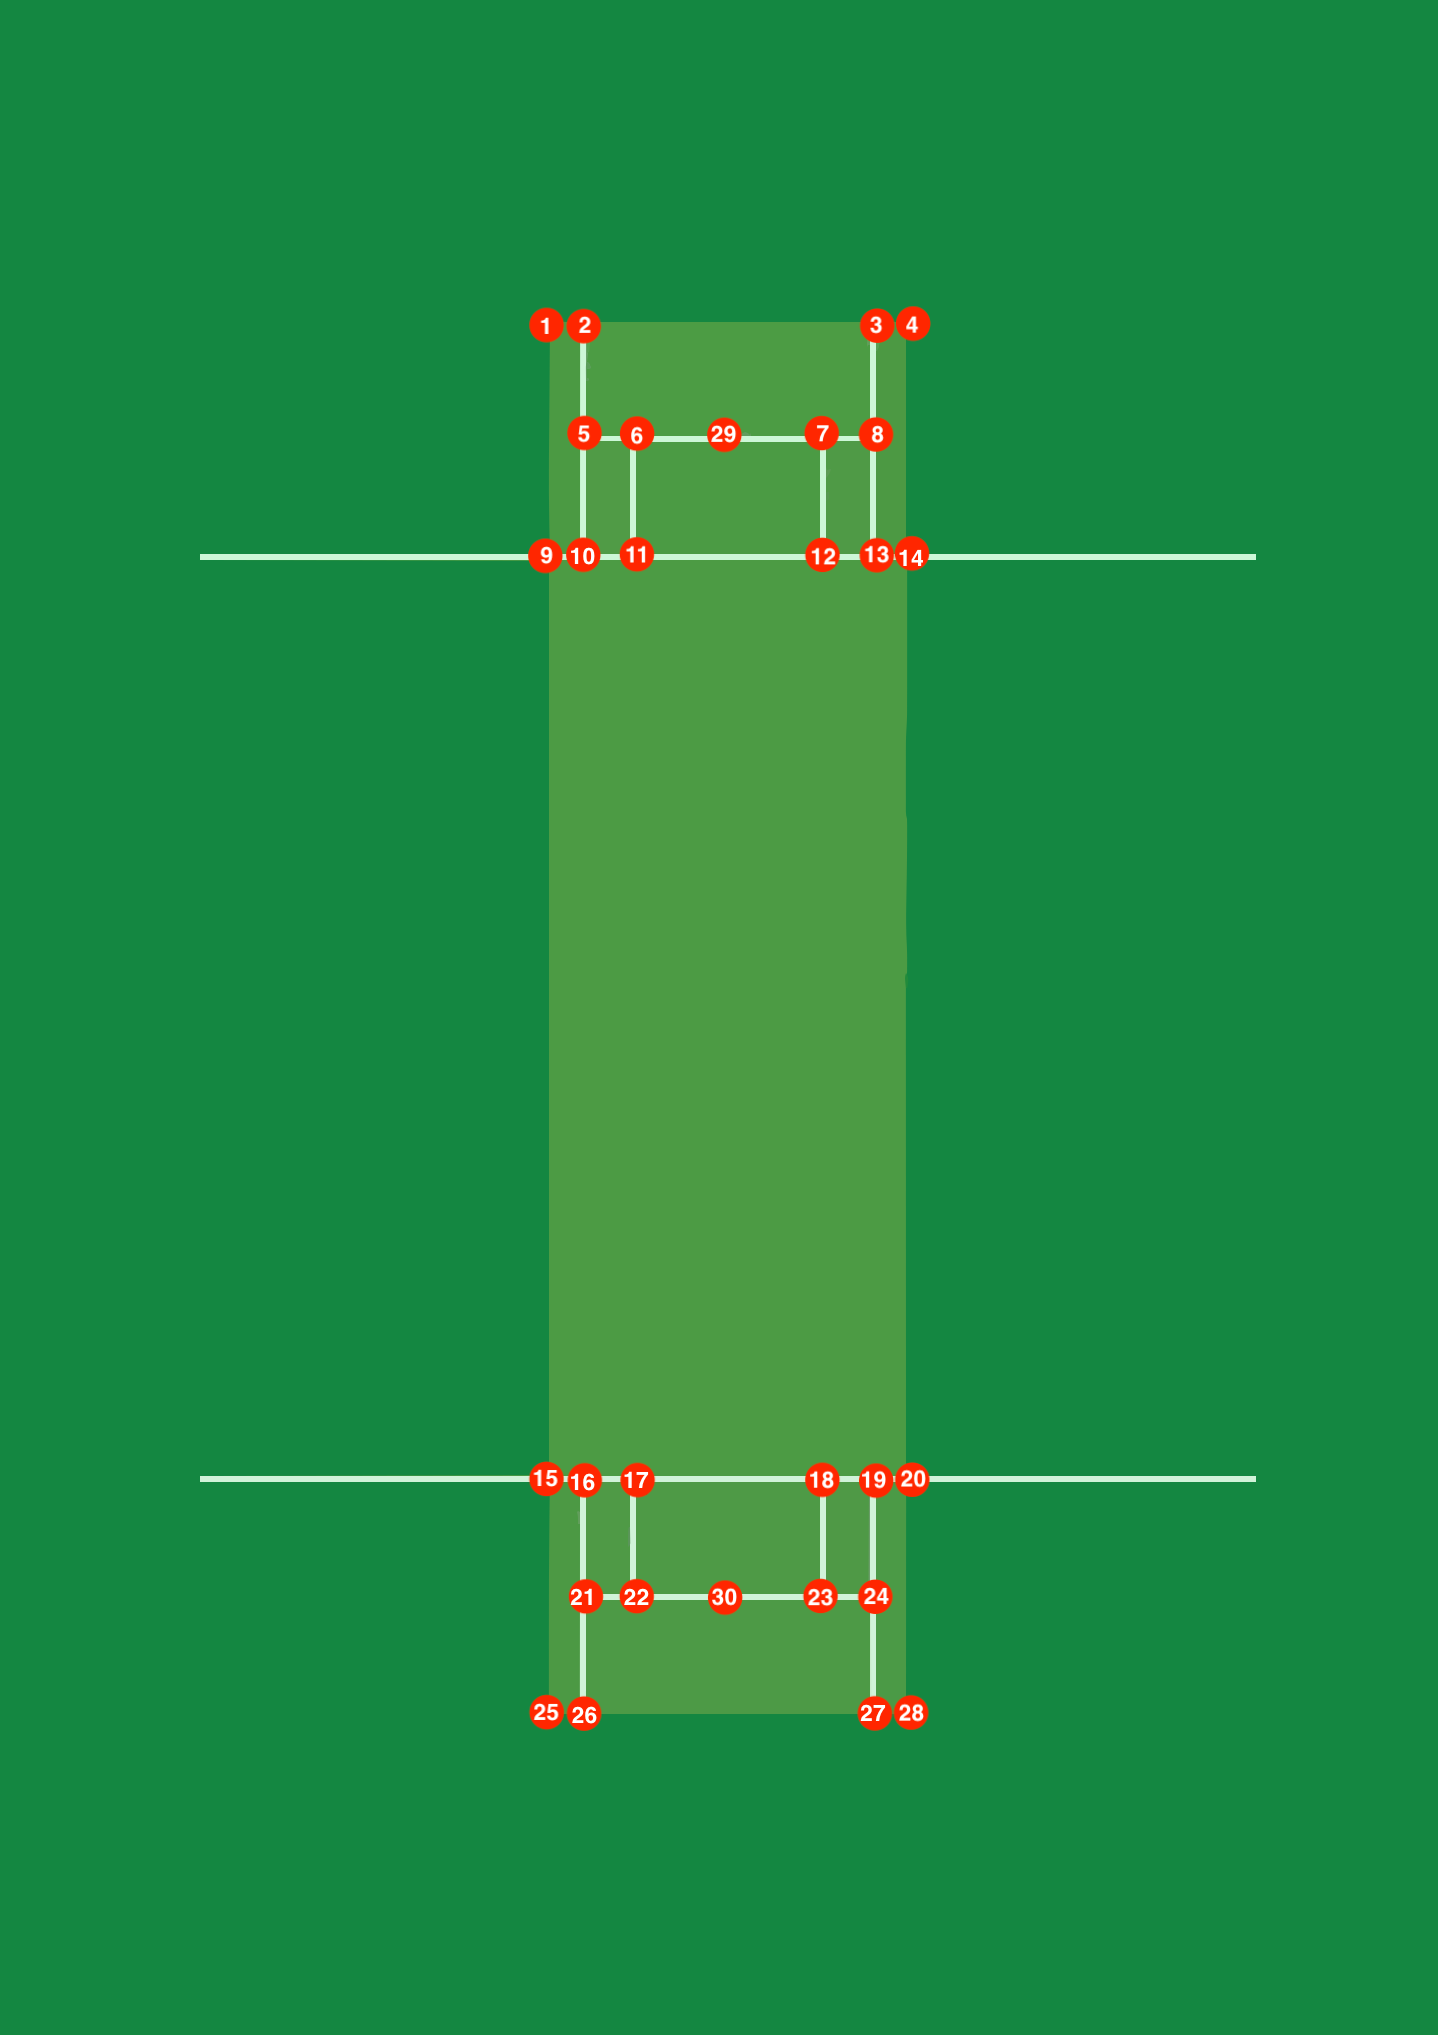
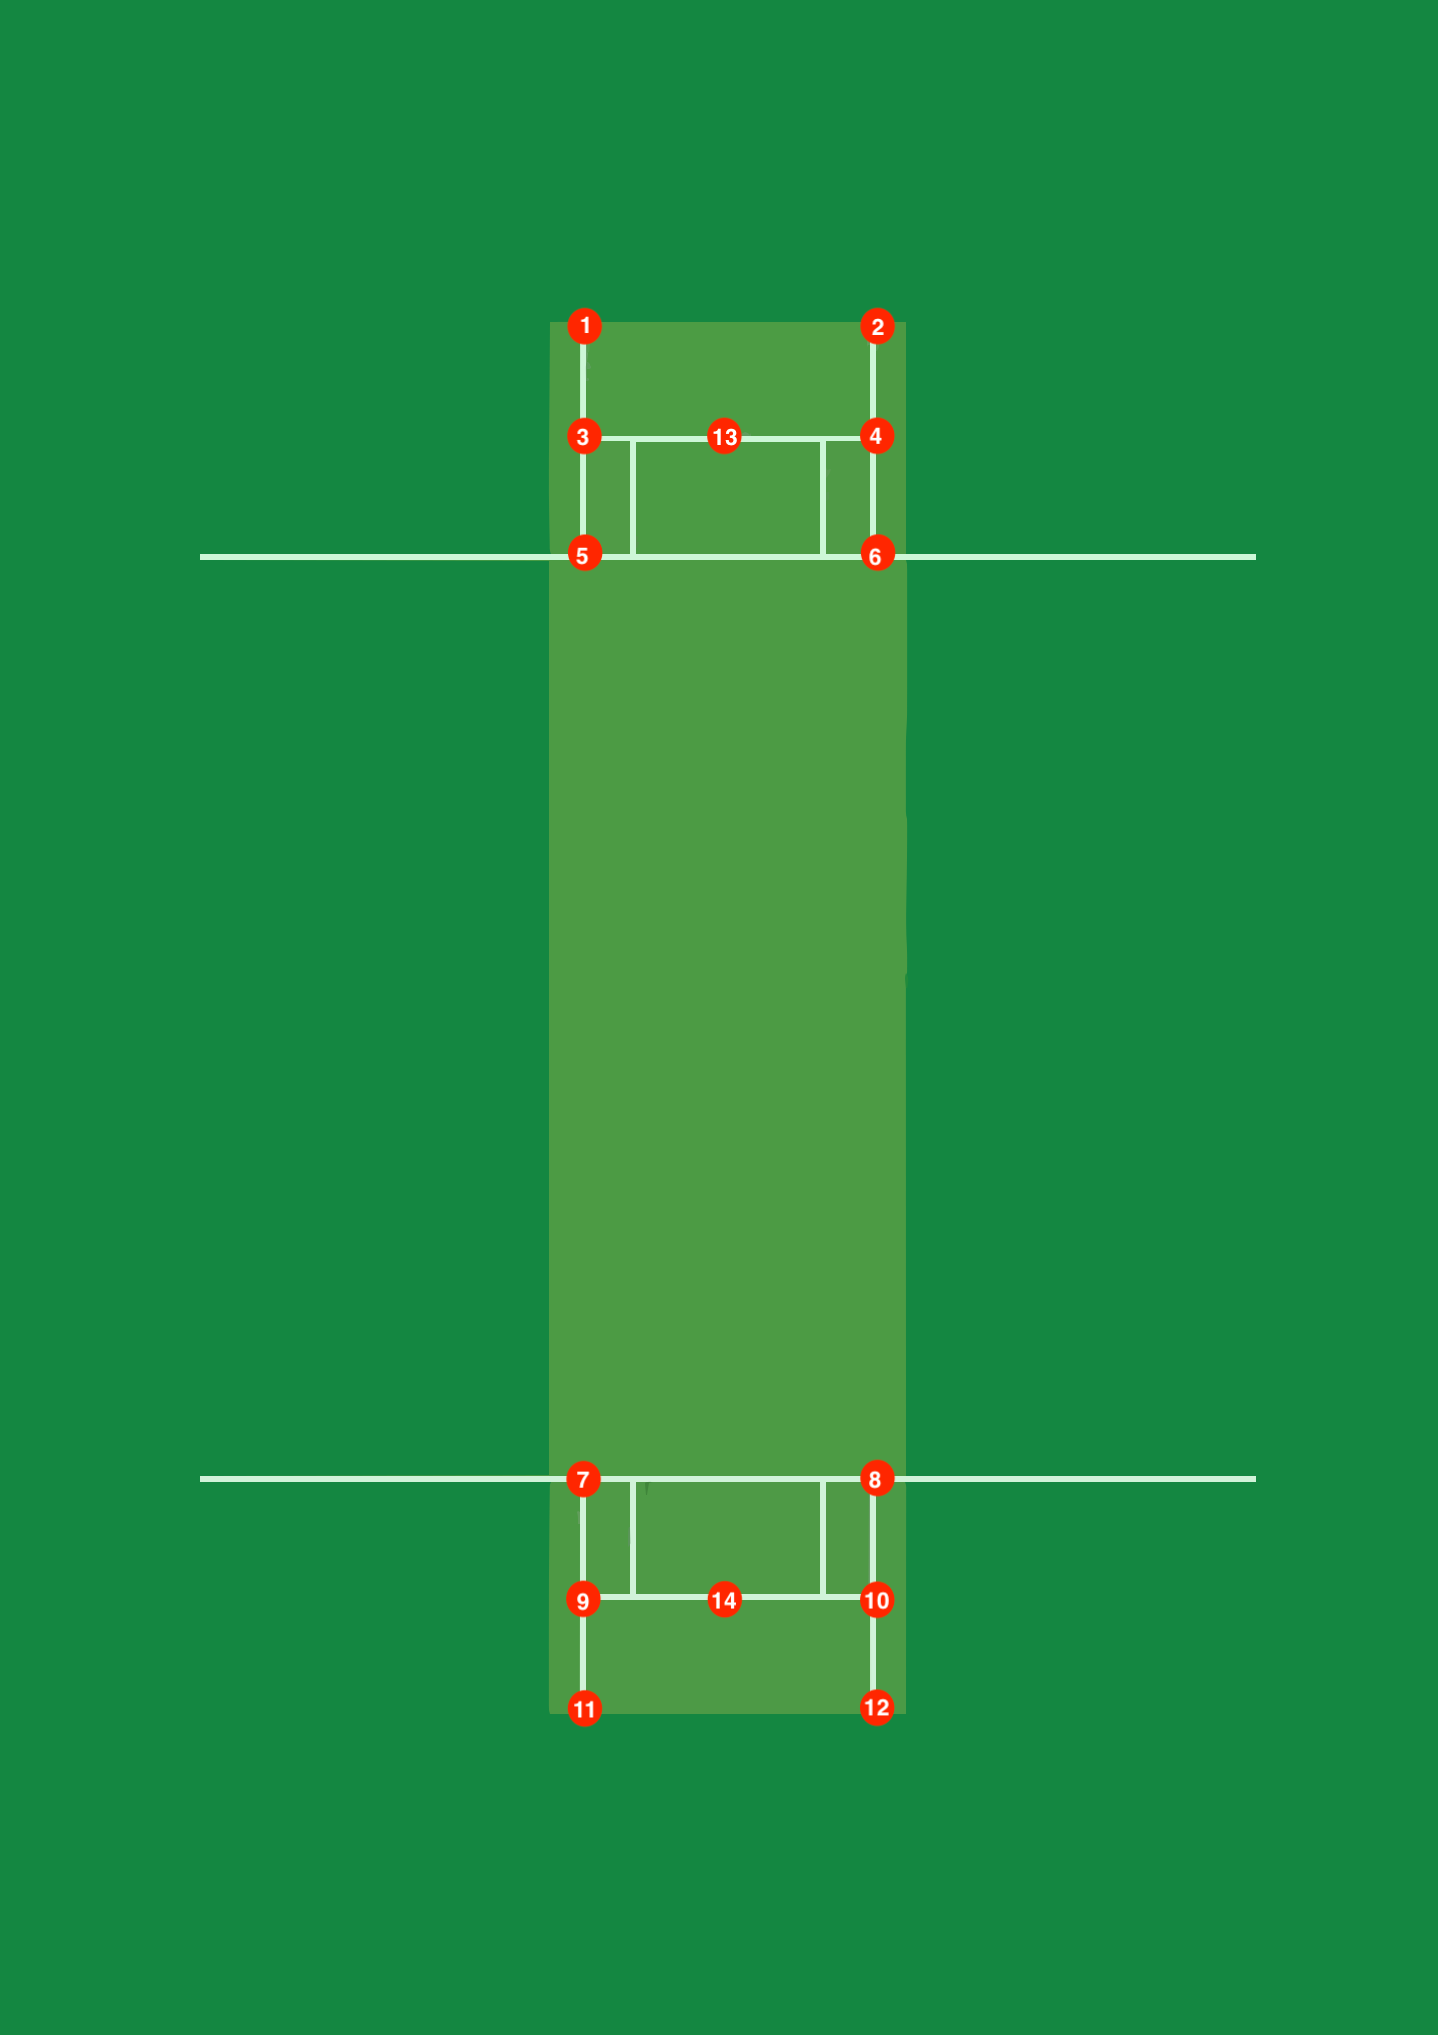
reduce keypoints

diff --git a/scorevision/utils/manifest.py b/scorevision/utils/manifest.py
@@ -141,42 +141,26 @@ KEYPOINT_TEMPLATES: dict[ChallengeType, KeypointTemplate] = {
     ChallengeType.CRICKET: KeypointTemplate(
         filename="cricket_pitch_template.png",
         keypoints_on_template=[
-            (1, 1),  # 1
-            (35, 1),  # 2
-            (325, 1),  # 3
-            (355, 1),  # 4
+            (35, 1),  # 1
+            (325, 1),  # 2
             # -------------
-            (35, 120),  # 5
-            (85, 120),  # 6
-            (275, 120),  # 7
-            (325, 120),  # 8
+            (35, 120),  # 3
+            (325, 120),  # 4
             # -------------
-            (1, 235),  # 9
-            (35, 235),  # 10
-            (85, 235),  # 11
-            (275, 235),  # 12
-            (325, 235),  # 13
-            (355, 235),  # 14
+            (35, 235),  # 5
+            (325, 235),  # 6
             # ===============
-            (1, 1160),  # 15
-            (35, 1160),  # 16
-            (85, 1160),  # 17
-            (275, 1160),  # 18
-            (325, 1160),  # 19
-            (355, 1160),  # 20
+            (35, 1160),  # 7
+            (325, 1160),  # 8
             # -------------
-            (35, 1275),  # 21
-            (85, 1275),  # 22
-            (275, 1275),  # 23
-            (325, 1275),  # 24
+            (35, 1275),  # 9
+            (325, 1275),  # 10
             # -------------
-            (1, 1392),  # 25
-            (35, 1392),  # 26
-            (325, 1392),  # 27
-            (355, 1392),  # 28
+            (35, 1392),  # 11
+            (325, 1392),  # 12
             # ===============
-            (175, 120),  # 29
-            (175, 1275),  # 30
+            (175, 120),  # 13
+            (175, 1275),  # 14
         ],
         keypoint_index_bottom_left=24,
         keypoint_index_bottom_right=27,
